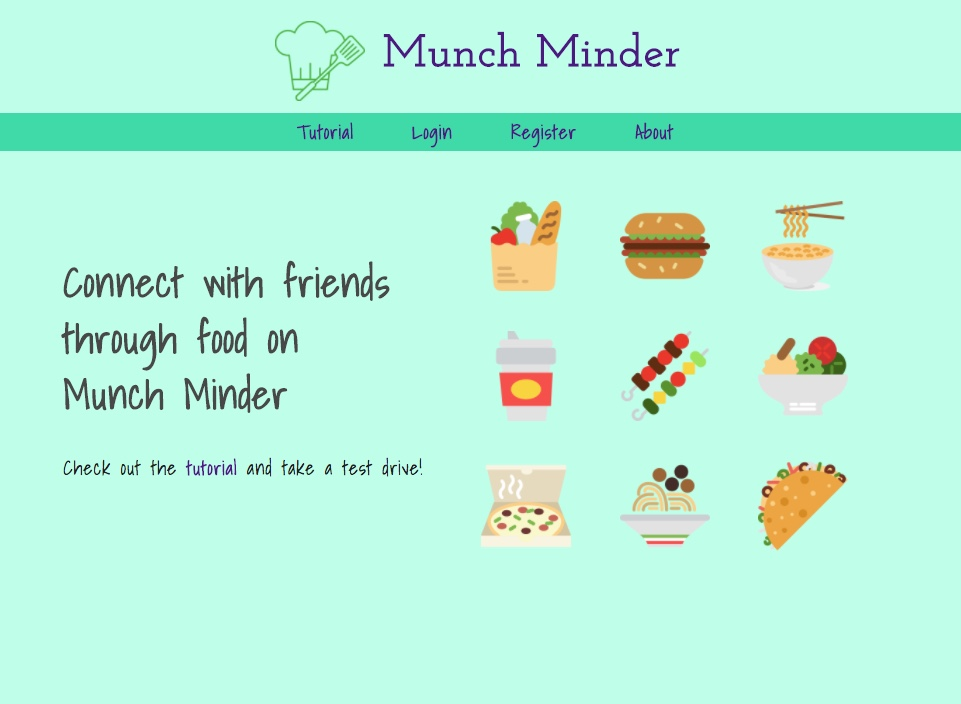
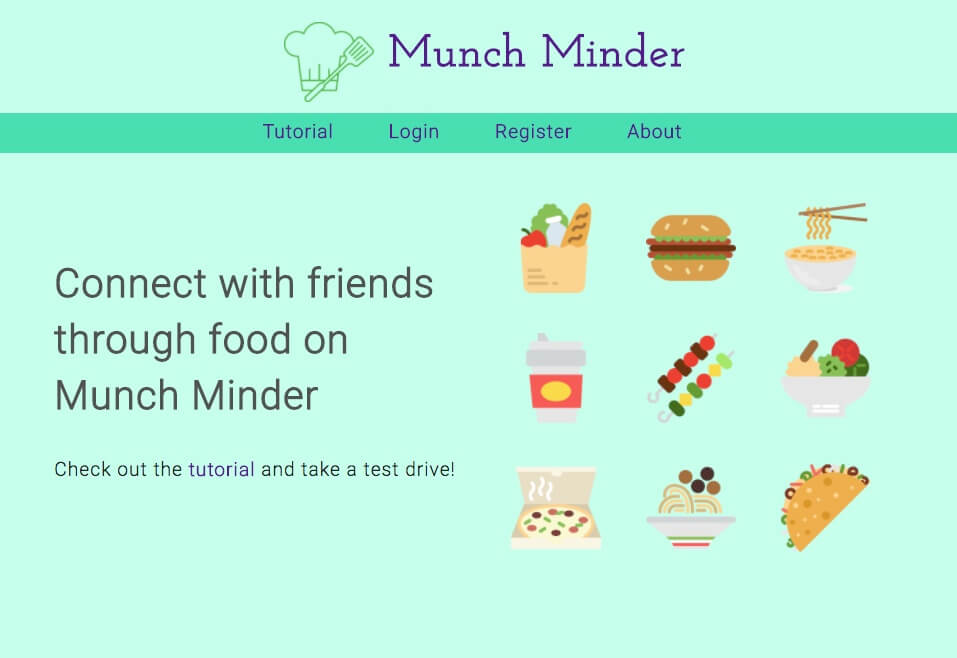
added background header image, finalizing font styling and color scheme

Changed region(s): [[0.4848, 0.2736, 0.9091, 0.8511], [0.0606, 0.3647, 0.4848, 0.7295], [0.0, 0.0304, 1.0, 0.2432]]

diff --git a/index.html b/index.html
@@ -4,28 +4,26 @@
     <meta charset="utf-8">
     <meta name="viewport" content="width=device-width, initial-scale=1">
     <title>StevenChang.tech</title>
-    <link href="https://fonts.googleapis.com/css?family=Montserrat" rel="stylesheet">
-    <link href="https://fonts.googleapis.com/css?family=Lato" rel="stylesheet">
-    <link href="https://fonts.googleapis.com/css?family=Raleway:200,300,400,500" rel="stylesheet">
+    <link href="https://fonts.googleapis.com/css?family=Raleway:200,300,400" rel="stylesheet">
     <link href="https://cdnjs.cloudflare.com/ajax/libs/normalize/8.0.0/normalize.min.css" rel="stylesheet" type="text/css">
-    <link href="float.css" rel="stylesheet" type="text/css">
-    <link href="main.css" rel="stylesheet" type="text/css">
+    <link href="css/float.css" rel="stylesheet" type="text/css">
+    <link href="css/main.css" rel="stylesheet" type="text/css">
     <script
     src="https://code.jquery.com/jquery-3.3.1.min.js"
     integrity="sha256-FgpCb/KJQlLNfOu91ta32o/NMZxltwRo8QtmkMRdAu8="
     crossorigin="anonymous"></script>
     <script defer src="https://use.fontawesome.com/releases/v5.0.7/js/all.js"></script>
-    <script src="jquery.scrollify.js"></script>
-    <script src="typed.min.js"></script>
+    <script src="vendors/jquery.scrollify.js"></script>
+    <script src="vendors/typed.min.js"></script>
     <script src="index.js"></script>
   </head>
   <body>
     <nav role="navigation" id="top-nav">
       <ul class="nav-bar" id="menu">
-        <li id="link-1"><a href="#home">home</a></li>
-        <li id="link-2"><a href="#about">about</a></li>
-        <li id="link-3"><a href="#projects">projects</a></li>
-        <li class="link-4"><a href="#contact">contact</a></li>
+        <li id="link-1"><a href="#home">Home</a></li>
+        <li id="link-2"><a href="#about">About</a></li>
+        <li id="link-3"><a href="#projects">Projects</a></li>
+        <li class="link-4"><a href="#contact">Contact</a></li>
       </ul>
     </nav>
 
@@ -68,7 +66,12 @@
       <div class="row">
         <section class="col-12 divider section" data-section-name="projects">
           <div class="project-header-container">
-            <a href="https://heartstrong.netlify.com/" target="_blank" rel="noopener noreferrer"><h2 class="project-title">HEARTSTRONG</h2></a>
+            <a href="https://heartstrong.netlify.com/" target="_blank" rel="noopener noreferrer">
+              <h2 class="project-title">
+                <div class="project-logo">
+                  <img src="images/logos/heartstrong-logo.png" alt="heartstrong logo">
+                </div>
+                HEART<strong>STRONG</strong></h2></a>
             <div class="project-tags">
               <p>| React | Redux |  Chart.js | Nodejs | Express | MongoDB | Mongoose |</p>
             </div>
@@ -81,7 +84,7 @@
 
             <div class="project-brief">
 
-              <p>HEARTSTRONG is a full-stack JavaScript app for tracking personal cardiovascular fitness sessions providing visual analysis of all activity.</p>
+              <p>HEART<strong>STRONG</strong> is a full-stack JavaScript app for tracking personal cardiovascular fitness sessions providing visual analysis of all activity.</p>
               <ul class="brief-list">
                 <li>Client side was built using create-react-app</li>
                 <li>Utilizes Promise middleware for asynchronous AJAX calls</li>
@@ -91,7 +94,6 @@
                 <li>Mongoose for object modeling for the MongoDB database.</li>
               </ul>
 
-              <!-- <p><strong>HEARTSTRONG</strong> is a personal exercise tracker, helping you log exercise sessions ensuring you reap the benefits of cardiovascular fitness.  Regular exercise is difficult, but <strong>HEARTSTRONG</strong> provides visual analysis about minutes exercised per session and displays data about the types of activities performed using Chart.js, helping you keep on track.  You can dynamically add new types of activities and exercise sessions, and see a lifetime log of all previous exercise.</p> -->
             </div>
           </div>
         </section>
@@ -100,7 +102,11 @@
       <div class="row">
         <section class="col-12 divider section" data-section-name="projects-2">
           <div class="project-header-container">
-            <a href="https://munch-minder.herokuapp.com/" target="_blank" rel="noopener noreferrer"><h2 class="project-title">Munch Minder</h2></a>
+            <a href="https://munch-minder.herokuapp.com/" target="_blank" rel="noopener noreferrer"><h2 class="project-title">
+              <div id="munch-minder-logo" class="project-logo">
+                <img src="images/logos/munchminder-logo.png" alt="munch minder logo">
+              </div>
+              Munch Minder</h2></a>
             <div class="project-tags">
               <p>| Node.js | Express | Mongoose | MongoDB | Passport | bcryptjs | Amazon S3 | </p>
             </div>
@@ -122,7 +128,6 @@
                 <li>Event listeners trigger asynchronous AJAX calls to API processing CRUD operations</li>
               </ul>
 
-              <!-- <p><strong>Munch Minder</strong> is a versatile photo blog and personal space for detailing your most recent culinary escapades, bragging to your friends about homemade creations, or simply logging what you ate or drank in an intuitive and easy to use way.  Follow the tutorial to create an account and post your first munch. Then, simply add friends to share and show what you've been enjoying!</p> -->
             </div>
           </div>
         </section>
@@ -132,7 +137,11 @@
         <section class="col-12 divider section" data-section-name="projects-3">
 
           <div class="project-header-container">
-            <a href="https://chang-steven.github.io/planIt/" target="_blank" rel="noopener noreferrer"><h2 class="project-title">planIt</h2></a>
+            <a href="https://chang-steven.github.io/planIt/" target="_blank" rel="noopener noreferrer"><h2 class="project-title">
+              <div class="project-logo">
+                <img src="images/logos/planit-logo.png" alt="planit logo">
+              </div>
+              planIt</h2></a>
             <div class="project-tags">
               <p>| Open API Use | AJAX Calls | jQuery traversal & DOM manipulation |</p>
             </div>
@@ -153,8 +162,6 @@
                 <li>A Google map centered on your desired destination with linked flags for the top food and fun places</li>
               </ul>
 
-              <!--
-              <p><strong>planIt</strong> is the ideal weekend getaway companion, making it easy to plan and go. Simply input the destination you want to go, and <strong>planIt</strong> will show you the 3-day weather forecast from the Weather Underground API and give you an estimated drive time and distance based on your current geolocation using the Google Distance Matrix API. For food and fun, <strong>planIt</strong> will show you interactive windows of the top 10 results of local fun spots and best eats around town based on reviews and check-ins from the FourSquare API and map them on a Google map centered on your desired destination.</p> -->
             </div>
           </div>
 

diff --git a/css/main.css b/css/main.css
@@ -3,28 +3,30 @@
 }
 
 body {
-  /* font-family: 'Lato', sans-serif; */
-  /* font-family: 'Montserrat', sans-serif; */
   font-family: 'Raleway', sans-serif;
-
+  background-color: #262d31;
+  /* background-color: #404A51; */
+  color: #cccccc;
   font-size: 20px;
-  color: #444;
   text-align: center;
   line-height: 1.5;
 }
 
-p {
-  font-size: .9em;
-  font-weight: 400;
+section {
+  padding: 14% 0;
 }
 
-nav,
-footer {
-  padding: 0;
-  background-color: #404A51;
+p {
+  font-size: .9em;
+  font-weight: 300;
+}
+
+h1 {
+  font-weight: 100;
 }
 
 nav {
+  padding: 0;
   position: fixed;
   top: 0;
   left: 0;
@@ -33,8 +35,8 @@ nav {
 }
 
 .scrolled-nav {
-  /* background-color: #ff8a00; */
-  background-color: #ffc457;
+  background-color: #adeae2;
+  /* background-color: #63e9d8; */
   -webkit-box-shadow: 0 8px 6px -6px #999;
   -moz-box-shadow: 0 8px 6px -6px #999;
   box-shadow: 0 8px 6px -6px #999;
@@ -48,40 +50,38 @@ nav {
   color: gray;
 }
 
+.nav-bar a {
+  color: #cccccc;
+}
+
+.nav-bar a:hover, footer a:hover, .project-header-container h2:hover, .contact-icon:hover {
+  -webkit-filter: hue-rotate(15deg) contrast(1.9) brightness(0.95) saturate(1.75);
+  filter: hue-rotate(15deg) contrast(1.9) brightness(0.95) saturate(1.75);
+  transition: -webkit-filter 0.25s linear, filter 0.25s linear;
+}
+
 header {
+  background-image: url('../images/gray-wood-vert.jpg');
   padding-top: 100px;
-  background-color: #404A51;
 }
 
 header h1 {
-  color: #49B7A9
+  color: #63e9d8;
 }
 
-.nav-bar a, footer a {
-  color: #cccccc;
-}
-
-.nav-bar a:hover, footer a:hover {
-  color: #ffc457;
-}
-
-.typing-container h2, h3 {
-  color: #cccccc;
-  font-weight: 200;
+.typing-container h2, .typing-container h3 {
+  color: white;
+  font-weight: 400;
 }
 
 #home-bottom-title {
-  color: #008dff;
+  color: #00b3ff;
   font-weight: 200;
 }
 
-section {
-  min-height: 200px;
-  padding: 14% 0;
-}
-
-section:nth-child(even) {
-  background-color: #ddd;
+#about-section h2 {
+  color: #63e9d8;
+  font-weight: 200;
 }
 
 .row {
@@ -115,10 +115,6 @@ section:nth-child(even) {
 .project-brief p {
   margin: 0;
   font-weight: 300;
-}
-
-h1 {
-  font-weight: 100;
 }
 
 .nav-bar li {
@@ -185,12 +181,17 @@ h1 {
   color: #cccccc;
 }
 
-.contact-icon:hover {
-  color: #ffc457;
-}
-
 .about-logo {
   font-size: 1.3em;
+}
+
+footer {
+  padding: 0;
+  background-image: url('../images/gray-wood-vert.jpg');
+}
+
+#footer-content {
+  font-weight: 300px;
 }
 
 #footer-content svg {
@@ -206,15 +207,18 @@ h1 {
 }
 
 #footer-content h3, p {
+  font-weight: 300;
   margin: 0 auto;
 }
 
 #footer-content h3 {
+  color: #63e9d8;
   padding-top: 20px;
 }
 
 #footer-content a {
   text-decoration: none;
+  color: white;
 }
 
 .contact-icon {
@@ -233,6 +237,33 @@ h1 {
   font-weight: 300;
 }
 
+.project-title {
+  color: #cccccc;
+  font-weight: 200;
+}
+
+.project-title strong {
+  font-weight: 400;
+}
+
+.project-header-container a {
+  text-decoration: none;
+}
+
+.project-logo {
+  display: inline-block;
+  width: 50px;
+  height: 50px;
+  vertical-align: middle;
+}
+
+#munch-minder-logo img {
+  vertical-align: middle;
+}
+
+.project-logo img {
+  width: 100%;
+}
 
 @media only screen and (max-width: 800px){
 

diff --git a/css/float.css b/css/float.css
@@ -1,7 +1,3 @@
-* {
-  box-sizing: border-box;
-}
-
 /* Grid measurements:
  *
  *   960px wide including 12 gutters (half gutters on both edges)
@@ -32,7 +28,7 @@
   clear: both;
 }
 
-.col-3, .col-4, .col-6, .col-12 {
+.col-12 {
   float: left;
 
   /* Gutters:
@@ -46,30 +42,6 @@
 }
 
 /* Mobile defaults */
-.col-3, .col-4, .col-6, .col-12 {
+.col-12 {
   width: 100%;
-}
-
-
-/* Non-mobile, grid */
-@media only screen and (min-width: 640px) {
-  /* 3 columns, 3/12 in % */
-  .col-3 {
-    width: 25%;
-  }
-
-  /* 4 columns, 4/12 in % */
-  .col-4 {
-    width: 33.33%;
-  }
-
-  /* 6 columns 6/12 in % */
-  .col-6 {
-    width: 50%;
-  }
-
-  /* 12 columns, 12/12 */
-  .col-12 {
-    width: 100%;
-  }
 }

diff --git a/index.js b/index.js
@@ -21,7 +21,6 @@ $(function() {
     $('#link-2').click((e) => {
       e.preventDefault();
       $.scrollify.move("#about");
-
     })
 
     $('#link-3').click((e) => {
